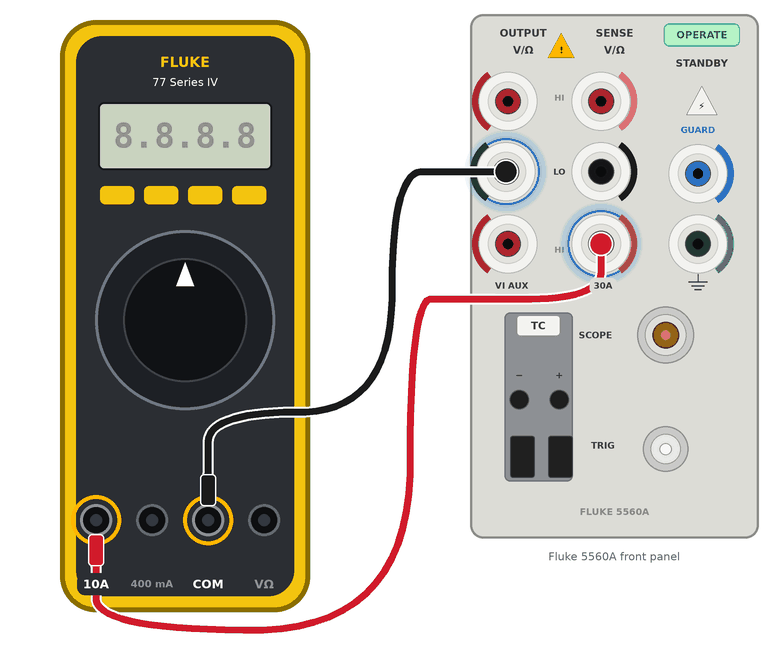
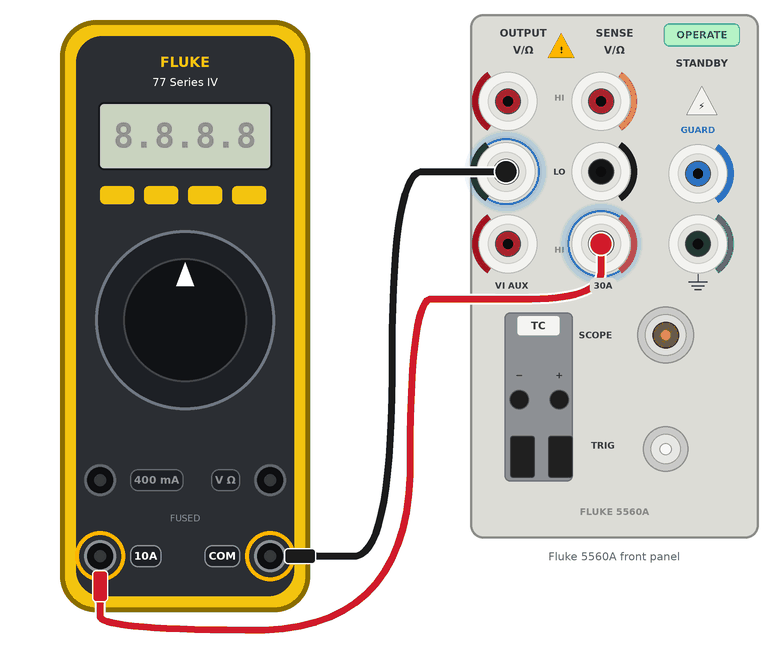
Fluke 77: 2x2 jack layout and dial/yellow-button prompts from the case photos
Jacks named as printed on the case ('400 mA', '10A', 'V Ω', 'COM') and the
six hook-up diagrams redrawn as the 2 x 2 block. Function prompts name the
dial position as printed and keep the manual's 'press the YELLOW button'
wording only where Table 2 footnote 1 gives it. Tests and notes updated.

Claude-Session: https://claude.ai/code/session_01VmnunfVAogpKCCPBXbw9cZ

diff --git a/specs/build_hookups.py b/specs/build_hookups.py
@@ -183,9 +183,11 @@ METER_DRAW = {
                      jacks=[('a10', 'A', 110), ('com', 'COM', 185), ('vohm', 'VΩ', 260)], alias={'ma': 'vohm'}),
     'fluke87v': dict(brand='FLUKE', model='87V', body='#f3c40f', edge='#8a6d00', face='#2b2e33', ink='#ffffff', accent='#f3c40f',
                      jacks=[('a10', '10A', 96), ('ma', 'mA µA', 152), ('com', 'COM', 208), ('vohm', 'VΩ', 264)], alias={}),
-    # the jack order is drawn like the 87V's; the 77 IV manual names the jacks (pp. 7, 12) but does not show their order on the case
+    # the 77 IV has its four jacks in a 2 x 2 block (photo of the real terminals, supplied by the lab): top-left '400 mA', bottom-left '10A'
+    # (the two fused inputs), top-right 'V Ω' (red), bottom-right 'COM' (black).  grid = (key, label, x, y, side the label sits on).
     'fluke77': dict(brand='FLUKE', model='77 Series IV', body='#f3c40f', edge='#8a6d00', face='#2b2e33', ink='#ffffff', accent='#f3c40f',
-                    jacks=[('a10', '10A', 96), ('ma', '400 mA', 152), ('com', 'COM', 208), ('vohm', 'VΩ', 264)], alias={}),
+                    grid=[('ma', '400 mA', 100, 480, 'L'), ('a10', '10A', 100, 556, 'L'), ('vohm', 'V Ω', 270, 480, 'R'), ('com', 'COM', 270, 556, 'R')],
+                    jacks=[('ma', '400 mA', 100), ('a10', '10A', 100), ('vohm', 'V Ω', 270), ('com', 'COM', 270)], alias={}),
 }
 
 
@@ -274,6 +276,76 @@ def draw_cable(pen, pts, color, width=7):
     pen.line(pts, color, width)
 
 
+# ------------------------------------------------------------------------------------------------ the 77's 2 x 2 jack block
+def grid_pos(kind):
+    return {key: (x, y) for key, label, x, y, side in METER_DRAW[kind]['grid']}
+
+
+def grid_approach(key):
+    """Which side each jack is reached from: the right-hand column from the right, 400 mA from above, 10A from below."""
+    return {'vohm': 'right', 'com': 'right', 'ma': 'above', 'a10': 'below'}[key]
+
+
+def grid_candidates(start, exit_pts, key, pos):
+    ex, ey = exit_pts[-1]
+    jx, jy = pos[key]
+    mode = grid_approach(key)
+    out = []
+    for vx in (392, 410, 428, 446):
+        if vx >= ex:
+            continue
+        if mode == 'right':
+            out.append([start, *exit_pts, (vx, ey), (vx, jy), (jx + 46, jy)])
+        elif mode == 'above':
+            for ty in (418, 426):
+                out.append([start, *exit_pts, (vx, ey), (vx, ty), (jx, ty), (jx, jy - 46)])
+        else:
+            for ty in (630, 644):
+                out.append([start, *exit_pts, (vx, ey), (vx, ty), (jx, ty), (jx, jy + 46)])
+    return out
+
+
+def grid_routes(cable_a, cable_b, pos):
+    """Best pair of routes; non-touching if one exists, otherwise the shortest pair with the red cable (a) crossing over the black one,
+    which is what the real leads do when the red terminal sits below the black one on the calibrator and its meter jack is on the far side."""
+    for need_clear in (True, False):
+        best = None
+        for ra in grid_candidates(*cable_a, pos):
+            for rb in grid_candidates(*cable_b, pos):
+                if need_clear and min_distance(ra, rb) < 15:
+                    continue
+                length = sum(abs(p[0] - q[0]) + abs(p[1] - q[1]) for r in (ra, rb) for p, q in zip(r, r[1:]))
+                if best is None or length < best[0]:
+                    best = (length, ra, rb)
+        if best is not None:
+            return best[1], best[2]
+    raise RuntimeError('no cable routes found')
+
+
+def draw_grid_jacks(pen, kind, used):
+    for key, label, x, y, side in METER_DRAW[kind]['grid']:
+        if key in used:
+            pen.circle(x, y, 25, outline=AMBER, width=4)
+        pen.circle(x, y, 16, fill='#0d0e10', outline='#8b919b' if key in used else '#5c626c', width=3)
+        pen.circle(x, y, 6, fill='#333840')
+        w = pen.text_size(label, 10.5)[0] + 8
+        lx = x + 30 + w / 2 if side == 'L' else x - 30 - w / 2
+        pen.rect(lx - w / 2, y - 11, lx + w / 2, y + 11, r=8, fill='#1d2025', outline='#8b919b' if key in used else '#5c626c', width=1.4)
+        pen.text(lx, y, label, 10.5, '#ffffff' if key in used else '#8d939d')
+    pen.text(185, 518, 'FUSED', 9, '#8d939d', bold=False)
+
+
+def grid_plug(pen, key, color, pos):
+    jx, jy = pos[key]
+    mode = grid_approach(key)
+    if mode == 'right':
+        pen.rect(jx + 14, jy - 8, jx + 46, jy + 8, r=4, fill=color, outline='#ffffff', width=1.6)
+    elif mode == 'above':
+        pen.rect(jx - 8, jy - 46, jx + 8, jy - 14, r=4, fill=color, outline='#ffffff', width=1.6)
+    else:
+        pen.rect(jx - 8, jy + 14, jx + 8, jy + 46, r=4, fill=color, outline='#ffffff', width=1.6)
+
+
 # ------------------------------------------------------------------------------------------------ one diagram
 def hook(meter, cal, group):
     pen = Pen(W, H, '#ffffff')
@@ -333,20 +405,30 @@ def hook(meter, cal, group):
         return
 
     red_key = {'VOHM': 'vohm', 'UAMP': 'ma', 'AMP10': 'a10'}[group]
-    red_x, black_x = mjacks[red_key], mjacks['com']
     red_start, red_exit = jacks[names[0]]
     black_start, black_exit = jacks[names[1]]
-    r_route, b_route, r_mode, b_mode = choose_routes((red_start, red_exit, red_x), (black_start, black_exit, black_x))
-    used = {red_x, black_x}
-    for key, label, x in METER_DRAW[meter]['jacks']:
-        draw_jack(pen, x, x in used)
-    draw_cable(pen, b_route, BLACK)
-    draw_cable(pen, r_route, RED)
-    plug(pen, red_x, RED, r_mode == 'above')
-    plug(pen, black_x, BLACK, b_mode == 'above')
+    if meter == 'fluke77':
+        pos = grid_pos(meter)
+        r_route, b_route = grid_routes((red_start, red_exit, red_key), (black_start, black_exit, 'com'), pos)
+        draw_grid_jacks(pen, meter, {red_key, 'com'})
+        draw_cable(pen, b_route, BLACK)
+        draw_cable(pen, r_route, RED)
+        grid_plug(pen, red_key, RED, pos)
+        grid_plug(pen, 'com', BLACK, pos)
+    else:
+        red_x, black_x = mjacks[red_key], mjacks['com']
+        r_route, b_route, r_mode, b_mode = choose_routes((red_start, red_exit, red_x), (black_start, black_exit, black_x))
+        used = {red_x, black_x}
+        for key, label, x in METER_DRAW[meter]['jacks']:
+            draw_jack(pen, x, x in used)
+        draw_cable(pen, b_route, BLACK)
+        draw_cable(pen, r_route, RED)
+        plug(pen, red_x, RED, r_mode == 'above')
+        plug(pen, black_x, BLACK, b_mode == 'above')
     for (cx, cy), c in ((red_start, RED), (black_start, BLACK)):
         pen.circle(cx, cy, 6.4 * K, fill=c, outline='#ffffff', width=1.8)
-    draw_labels(pen, meter, used)
+    if meter != 'fluke77':
+        draw_labels(pen, meter, used)
     if cal == '5522A':
         for label, (ux, uy) in (('20A', (86, 131)), ('GUARD', (34, 131))):
             tx, ty = P(ux, uy)

diff --git a/specs/build_77_spec.py b/specs/build_77_spec.py
@@ -33,23 +33,23 @@ UNITS = {'Ω': ('1', 'ohm'), 'kΩ': ('1000', 'ohm'), 'MΩ': ('1000000', 'ohm'), 
 
 # dial position / function text shown by the "Change the function" prompt; the engine asks again whenever this text changes between two points
 SW = {
-    'ohm': 'Ω  (Ohms)',
-    'cont': 'Continuity  (•)))  )',
-    'acv': 'V~  (AC volts)',
-    'hz': 'V~ Hz  (AC volts frequency; press the YELLOW button)',
-    'dcv': 'V⎓  (DC volts)',
-    'mv': 'mV⎓  (DC millivolts)',
-    'cap': 'Capacitance  (press the YELLOW button)',
-    'acma': 'mA~  (AC milliamps)',
-    'aca': 'A~  (AC amps)',
-    'dcma': 'mA⎓  (DC milliamps; press the YELLOW button)',
-    'dca': 'A⎓  (DC amps; press the YELLOW button)',
+    'ohm': 'Ω  (dial: Ω / capacitance position)',
+    'cont': 'Continuity  •)))  (dial: continuity / diode position)',
+    'acv': 'V~  (dial: Hz V~ position)',
+    'hz': 'Hz  (dial: Hz V~ position; press the YELLOW button)',
+    'dcv': 'V⎓  (dial: V⎓ position)',
+    'mv': 'mV⎓  (dial: mV⎓ position)',
+    'cap': 'Capacitance  ⊣⊢  (dial: Ω / capacitance position; press the YELLOW button)',
+    'acma': 'mA~  (dial: mA position, AC)',
+    'aca': 'A~  (dial: A position, AC)',
+    'dcma': 'mA⎓  (dial: mA position; press the YELLOW button)',
+    'dca': 'A⎓  (dial: A position; press the YELLOW button)',
 }
 
 NOTE_LEADS = 'Table 2 note: avoid coupled noise on AC current by leaving the VΩ input unconnected (or shorting it to COM).'
 NOTE_YELLOW = 'Table 2 footnote 1: press the YELLOW button to access this function.'
 NOTE_OHMS = 'The limits do not include test lead resistance (Table 2 note 2).'
-NOTE_ACDC_AC = 'Select AC with the YELLOW button if the display does not already show AC (~): the manual marks only the DC milliamp / DC amp rows with the yellow-button footnote.'
+NOTE_ACDC_AC = 'Table 2 gives no yellow-button step for AC (only DC milliamps / DC amps carry footnote 1): the display should show AC (~).'
 
 # (step, section, switch, range, kind, applied value (base units), applied frequency (Hz), display unit, low, high, accuracy (pct, counts, resolution), extras)
 # low / high are the strings printed in Table 2 (as read from the page image) except where 'corrected' is given.

diff --git a/tests/test_77_points.py b/tests/test_77_points.py
@@ -55,9 +55,7 @@ OUT_COMMANDS = {
 }
 SECTION_COUNTS = {'Ohms': 5, 'Continuity': 2, 'AC volts': 9, 'AC volts frequency': 1, 'DC volts': 4, 'DC millivolts': 3, 'Capacitance': 1,
                   'AC milliamps': 3, 'AC amps': 2, 'DC milliamps': 3, 'DC amps': 2}
-FUNCTION_PROMPTS = ['Ω  (Ohms)', 'Continuity  (•)))  )', 'V~  (AC volts)', 'V~ Hz  (AC volts frequency; press the YELLOW button)', 'V⎓  (DC volts)',
-                    'mV⎓  (DC millivolts)', 'Capacitance  (press the YELLOW button)', 'mA~  (AC milliamps)', 'A~  (AC amps)',
-                    'mA⎓  (DC milliamps; press the YELLOW button)', 'A⎓  (DC amps; press the YELLOW button)']
+FUNCTION_PROMPTS = ['Ω  (dial: Ω / capacitance position)', 'Continuity  •)))  (dial: continuity / diode position)', 'V~  (dial: Hz V~ position)', 'Hz  (dial: Hz V~ position; press the YELLOW button)', 'V⎓  (dial: V⎓ position)', 'mV⎓  (dial: mV⎓ position)', 'Capacitance  ⊣⊢  (dial: Ω / capacitance position; press the YELLOW button)', 'mA~  (dial: mA position, AC)', 'A~  (dial: A position, AC)', 'mA⎓  (dial: mA position; press the YELLOW button)', 'A⎓  (dial: A position; press the YELLOW button)']
 
 
 def setUpModule():
@@ -151,6 +149,12 @@ class Spec(unittest.TestCase):
                 self.assertTrue(plan and plan['image'] and Path(plan['image']).is_file(), (cal, group))
         self.assertIn('400 mA', hookups.summary('fluke77', '5522A', 'UAMP'))
         self.assertIn('10A', hookups.summary('fluke77', '5560A', 'AMP10'))
+
+    def test_jack_names_are_as_printed_on_the_case(self):
+        """Photo of the real terminals: 2 x 2 block, '400 mA' / '10A' (fused) on the left, 'V Ω' / 'COM' on the right."""
+        import hookups
+        self.assertEqual(hookups.METERS['fluke77']['jacks'], {'vohm': 'V Ω', 'ma': '400 mA', 'a10': '10A', 'com': 'COM'})
+        self.assertIn('V Ω', hookups.summary('fluke77', '5522A', 'VOHM'))
 
 
 class Step8(unittest.TestCase):

diff --git a/tests/test_handheld_options.py b/tests/test_handheld_options.py
@@ -226,8 +226,7 @@ EXPECTED = {       # the rotary-switch prompts, in order (group NONE points carr
             'Ω position, capacitance (press the yellow button)', 'diode / continuity position', 'µA position (current)',
             'mA / A position, mA', 'mA / A position, A'],
     'MM325': [],
-    '77IV': ['Ω  (Ohms)', 'Continuity  (•)))  )', 'V~  (AC volts)', 'V~ Hz  (AC volts frequency; press the YELLOW button)', 'V⎓  (DC volts)', 'mV⎓  (DC millivolts)',
-             'Capacitance  (press the YELLOW button)', 'mA~  (AC milliamps)', 'A~  (AC amps)', 'mA⎓  (DC milliamps; press the YELLOW button)', 'A⎓  (DC amps; press the YELLOW button)'],
+    '77IV': ['Ω  (dial: Ω / capacitance position)', 'Continuity  •)))  (dial: continuity / diode position)', 'V~  (dial: Hz V~ position)', 'Hz  (dial: Hz V~ position; press the YELLOW button)', 'V⎓  (dial: V⎓ position)', 'mV⎓  (dial: mV⎓ position)', 'Capacitance  ⊣⊢  (dial: Ω / capacitance position; press the YELLOW button)', 'mA~  (dial: mA position, AC)', 'A~  (dial: A position, AC)', 'mA⎓  (dial: mA position; press the YELLOW button)', 'A⎓  (dial: A position; press the YELLOW button)'],
 }
 EXPECTED['289'] = EXPECTED['287'][:8] + ['Ω position, LoΩ (289)'] + EXPECTED['287'][8:] + ['LoZ position (289)']
 

diff --git a/hookups.py b/hookups.py
@@ -47,8 +47,9 @@ METERS = {
     'mm325': dict(name='Klein Tools MM325', jacks={'vohm': 'VΩ', 'ma': 'VΩ µA mA', 'a10': '10A', 'com': 'COM'}),
     'fluke110': dict(name='Fluke 110 series', jacks={'vohm': 'VΩ', 'ma': 'VΩ', 'a10': 'A', 'com': 'COM'}),
     'fluke87v': dict(name='Fluke 87V', jacks={'vohm': 'VΩ', 'ma': 'mA µA', 'a10': '10A', 'com': 'COM'}),
-    # Fluke 77 Series IV: the manual (Calibration Information pp. 7, 12) names the jacks VΩ, 400 mA, 10A and COM; their order on the case is not shown in it
-    'fluke77': dict(name='Fluke 77 Series IV', jacks={'vohm': 'VΩ', 'ma': '400 mA', 'a10': '10A', 'com': 'COM'}),
+    # Fluke 77 Series IV: jacks named as printed on the case (photo of the real terminals): 2 x 2 block, top-left '400 mA', bottom-left '10A'
+    # (the two fused inputs), top-right 'V Ω' (red), bottom-right 'COM' (black)
+    'fluke77': dict(name='Fluke 77 Series IV', jacks={'vohm': 'V Ω', 'ma': '400 mA', 'a10': '10A', 'com': 'COM'}),
 }
 RED_JACK = {'VOHM': 'vohm', 'UAMP': 'ma', 'AMP10': 'a10'}
 

diff --git a/NOTES.md b/NOTES.md
@@ -172,7 +172,10 @@ Keysight 33210A, Agilent 33220A, Agilent 33250A (Fluke 5790B as the AC standard)
 - Shared-engine additions (additive; every other handheld is unchanged): `options.report_title` (77 IV: 'Calibration Data', so the report follows the project rule; the other handhelds keep
   '<model> Performance Verification'), `step.report_desc`, `source.report_note` (see specs/README.txt), the `fluke77` meter in `hookups.py` and `specs/build_hookups.py` (6 diagrams, only the 77 files were drawn).
   Editing `handheld_dmm.py` / `hookups.py` changes the fingerprint of every procedure that uses them, so the verified Fluke 117 will show 'Changed since verification' (verified.py); its behaviour did not change.
-- Unverified: the yellow-button / dial sequence for continuity, AC mA and AC A (Table 2 marks the yellow-button footnote on capacitance, diode, DC mA, DC A, V~ Hz only); the order of the jacks on the case (drawn like the 87V);
+- Verified from the lab's photos of the real case plus the manual: the jacks are a 2 x 2 block, top-left '400 mA', bottom-left '10A' (the two FUSED inputs), top-right 'V Ω' (red), bottom-right 'COM' (black); the dial has Hz V~, V⎓, mV⎓, Ω / capacitance, continuity / diode, mA and A positions plus OFF,
+  and a YELLOW button (orange symbols: Hz, capacitance, diode, DC on the mA and A positions). Function prompts name the dial position as printed and repeat the manual's own wording 'Press the YELLOW button to access this function' (Table 2 footnote 1: V~ Hz, capacitance, diode, DC mA, DC A);
+  AC volts, continuity, AC mA and AC A carry no yellow-button step in the manual, so none is invented (the AC mA / A notes only say the display should show AC).
+- Unverified: the exact yellow-button toggle behaviour (the manual does not describe it beyond footnote 1);
   calibrator capacitance output (`OUT <n>NF`, unverified on both calibrators) and DC current (`OUT <n>A,0Hz` unverified on the 5560A); whether a 5522A / 5560A can make 9 A at 1 kHz (the calibrator refuses what it cannot; TAR is 0.9:1 there).
 - Existing quirk found, not changed: the shared engine prints '(2 V applied)' on every kHz frequency row of the 110-series and 87V reports whatever the applied level is (the 77 IV uses `report_desc`).
 - Tests: `tests/test_77_points.py` (spec vs an independent second transcription of Table 2, specification check, step 8, padding, prompt sequences, wire commands on both simulated calibrators, full run on the bench, PDF, demo),
